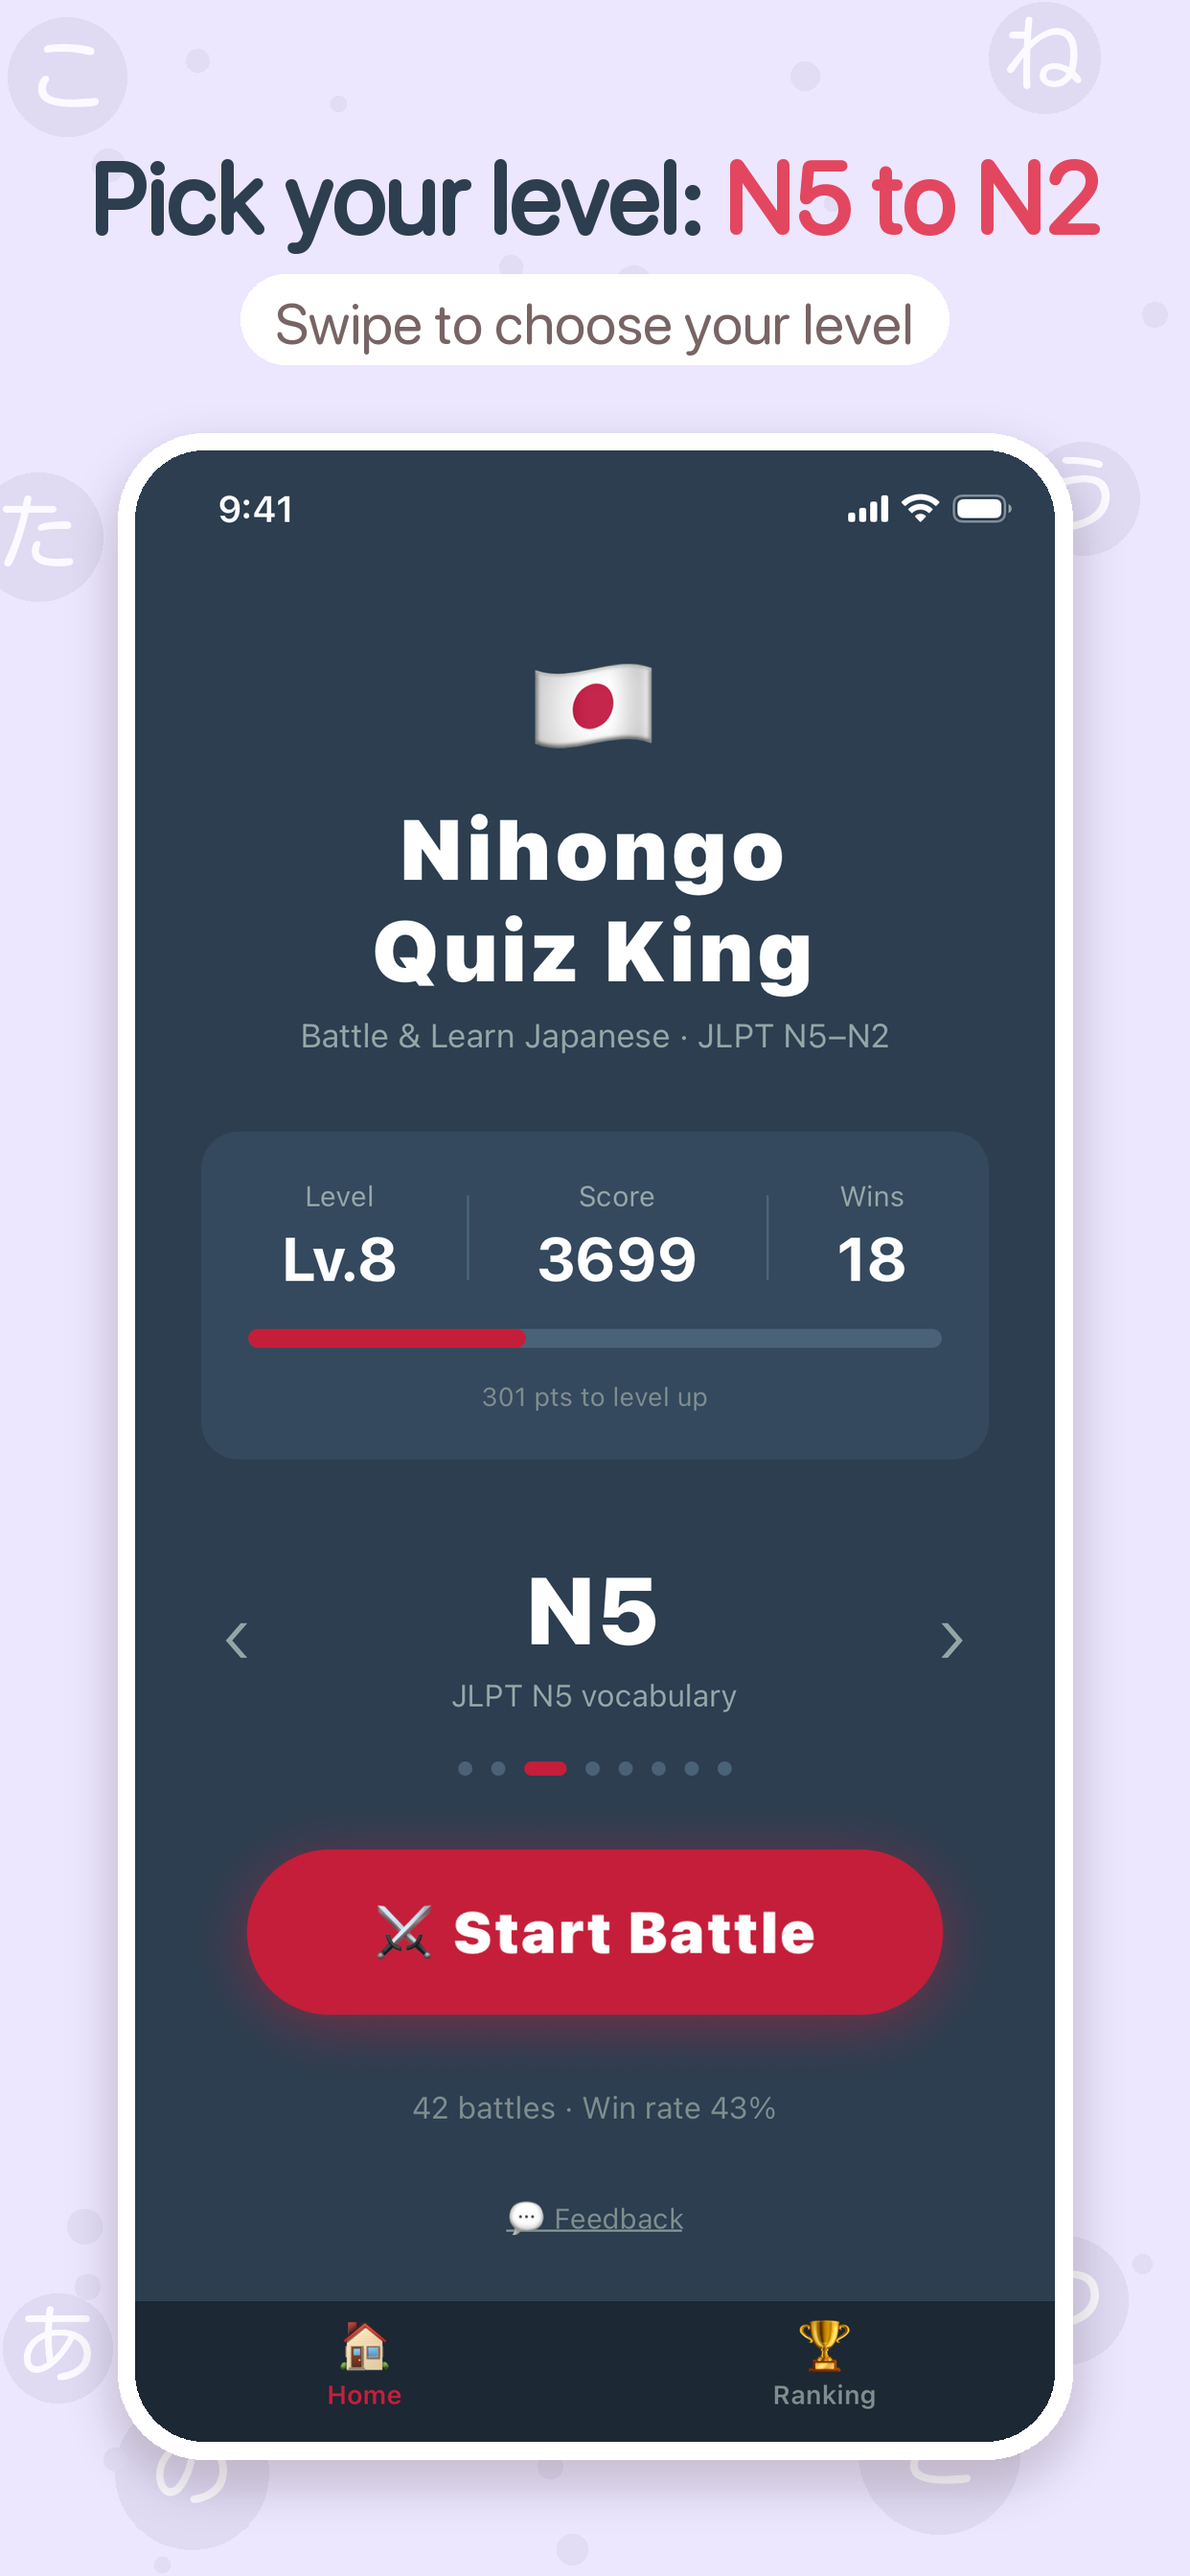
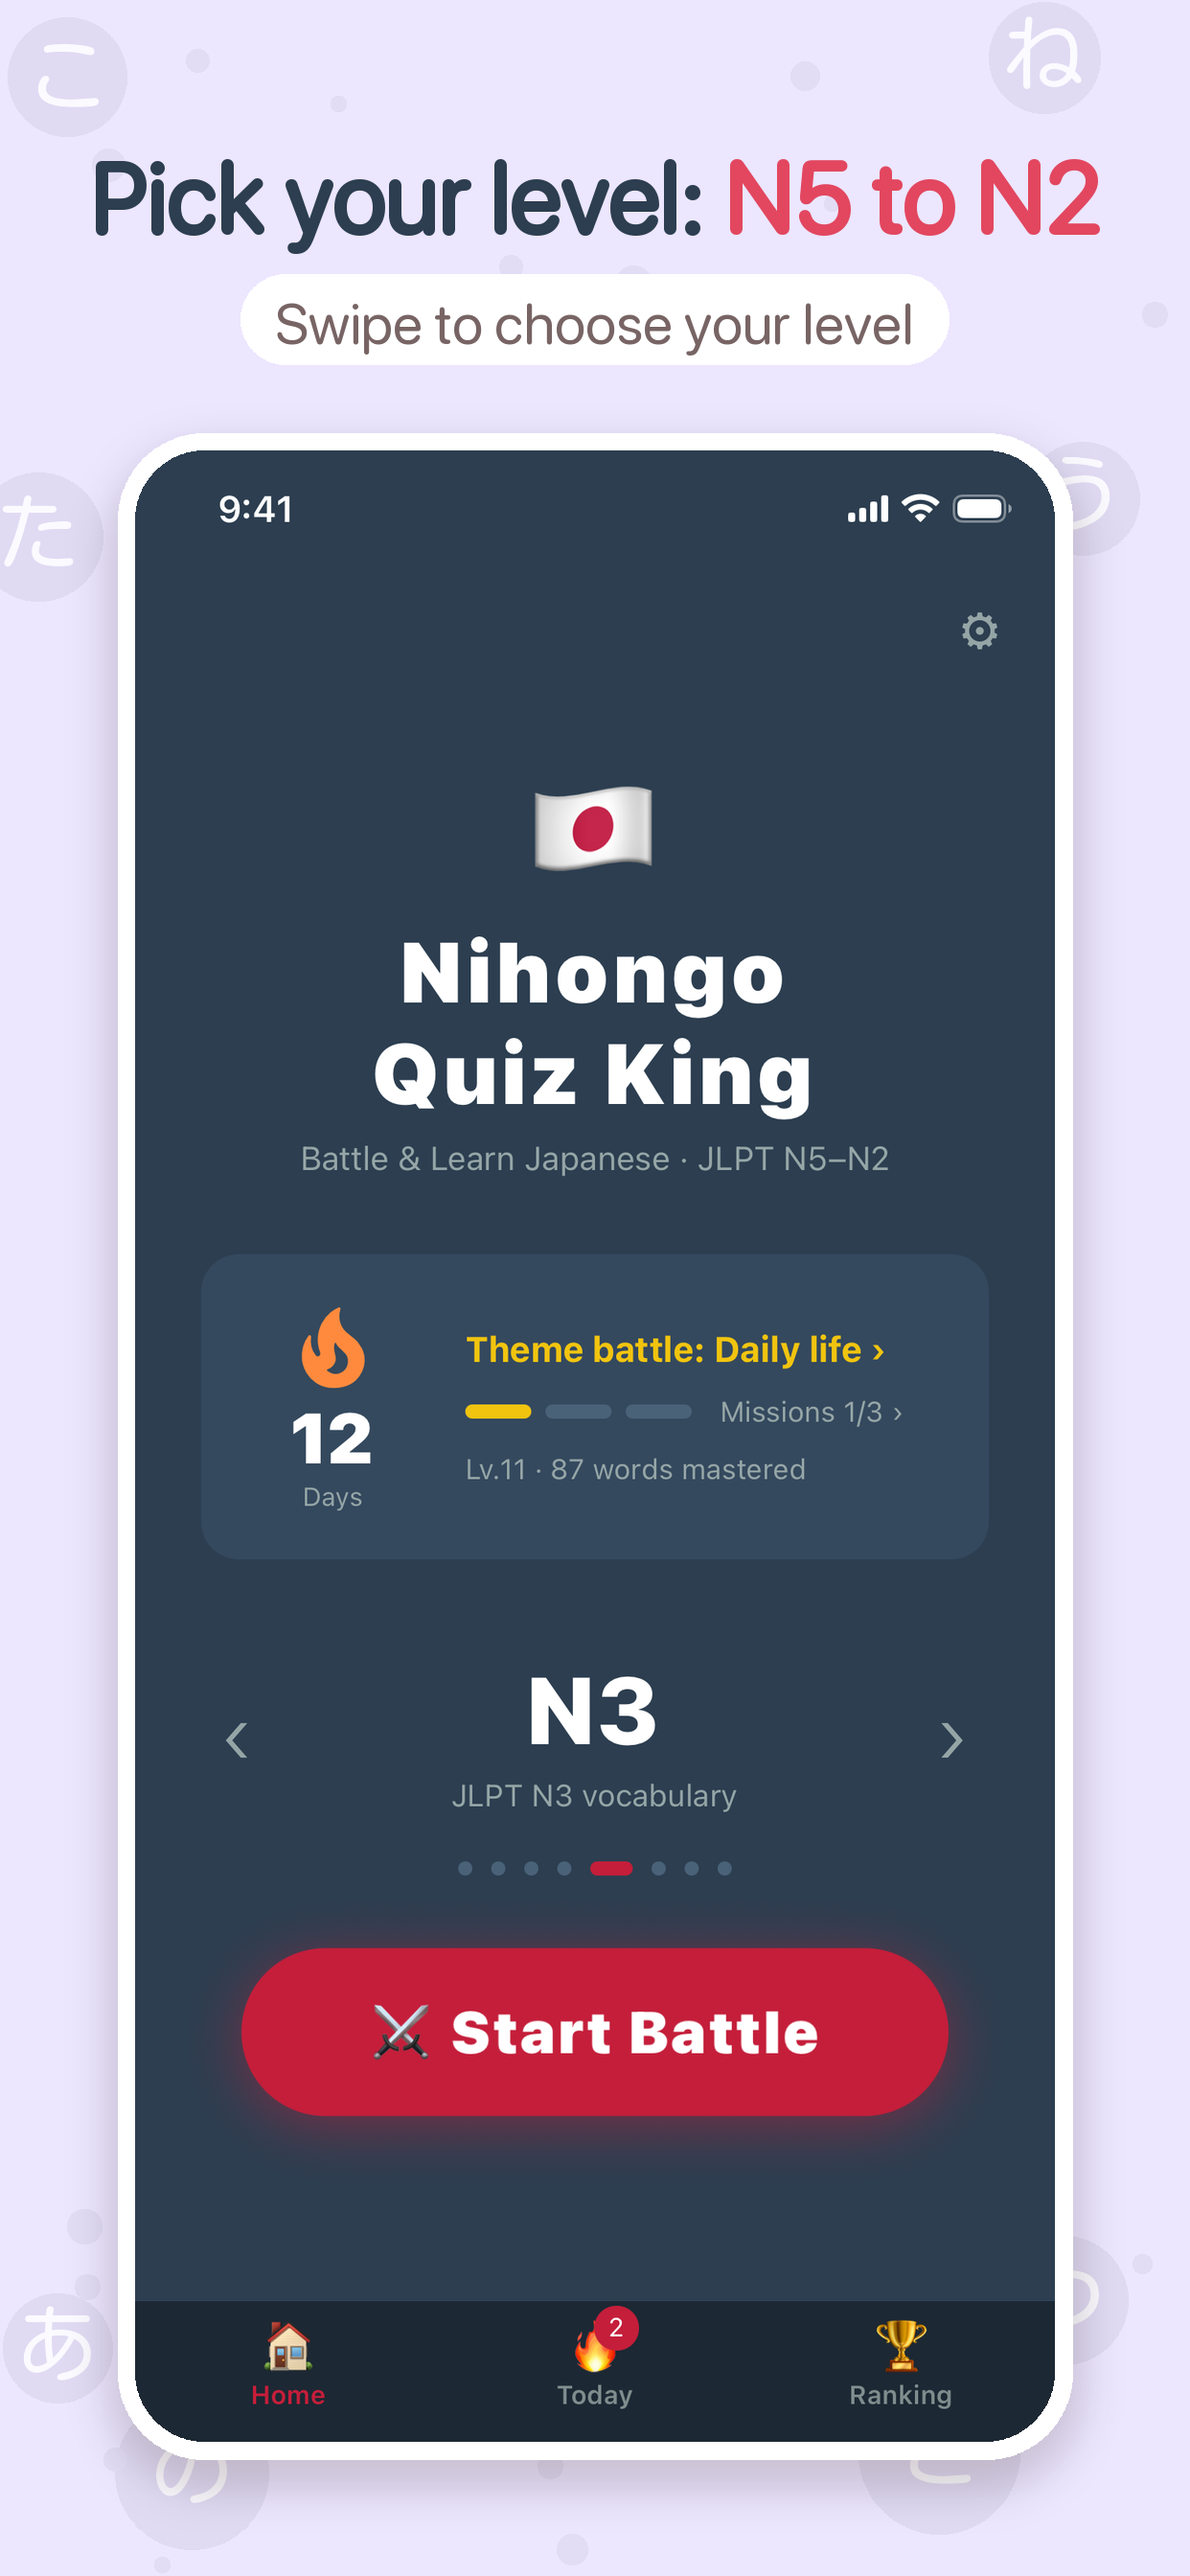
docs(appstore): 1.8.0 screenshots (new home, Today tab, result, leaderboard)
- 7 screenshots per size/language: Today tab added as #5
- home, result and leaderboard re-shot for the new layout
- composer: background colour per screen, today caption

diff --git a/scripts/compose_appstore_screenshots.py b/scripts/compose_appstore_screenshots.py
@@ -4,7 +4,7 @@ Usage:
   python3 scripts/compose_appstore_screenshots.py <raw_dir> <out_dir> pastel <zh_font.ttf>
 
 - raw_dir has en/ and zh/ with 1170x2532 simulator shots named
-  battle1 / correct / kana / home / result / rank .png
+  battle1 / correct / kana / home / today / result / rank .png
   A screen with no raw shot is skipped and its existing file in out_dir is
   kept, so only the screens whose UI changed need re-shooting.
 - zh_font: jf open 粉圓 (SIL OFL, free for commercial use), not stored in the repo:
@@ -25,7 +25,10 @@ W, H = 1242, 2688
 NAVY = (44, 62, 80)
 RED = (226, 71, 95)        # softer than the app's #C41E3A
 
-PASTELS = [(255, 228, 234), (223, 245, 236), (255, 243, 204), (236, 230, 255), (255, 232, 214), (224, 240, 255)]
+PASTELS = [(255, 228, 234), (223, 245, 236), (255, 243, 204), (236, 230, 255), (255, 232, 214), (224, 240, 255),
+           (232, 246, 220)]
+# Background per screen (not per position), so inserting a screen keeps the others' colours.
+COLOR_OF = {'battle1': 0, 'correct': 1, 'kana': 2, 'home': 3, 'result': 4, 'rank': 5, 'today': 6}
 CREAM = (255, 246, 238)
 
 CAPTIONS = {
@@ -34,6 +37,7 @@ CAPTIONS = {
         ('correct', ['10 秒', '搶答'], '越快答對，分數越高'),
         ('kana', ['從五十音', '開始'], '平假名、片假名也能對戰'),
         ('home', ['N5 到 N2 ', '任你選'], '左右滑動，挑你的難度'),
+        ('today', ['每天 3 個', '任務'], '完成就在月曆蓋章'),
         ('result', ['打贏對手，', '累積升級'], '每題都附讀音與答案'),
         ('rank', ['每週', '排行榜'], '看看你這週排第幾'),
     ],
@@ -42,6 +46,7 @@ CAPTIONS = {
         ('correct', ['10 seconds ', 'per question'], 'Answer faster, score higher'),
         ('kana', ['Start with ', 'kana'], 'Hiragana and katakana battles'),
         ('home', ['Pick your level: ', 'N5 to N2'], 'Swipe to choose your level'),
+        ('today', ['3 daily ', 'missions'], 'Stamp your calendar'),
         ('result', ['Win and ', 'level up'], 'Every answer, with its reading'),
         ('rank', ['Weekly ', 'leaderboard'], 'See where you rank this week'),
     ],
@@ -130,7 +135,7 @@ for lang, items in CAPTIONS.items():
         raw = os.path.join(RAW, lang, f'{name}.png')
         if not os.path.exists(raw):
             continue
-        bg = PASTELS[n - 1] if STYLE == 'pastel' else CREAM
+        bg = PASTELS[COLOR_OF[name]] if STYLE == 'pastel' else CREAM
         canvas = Image.new('RGB', (W, H), bg)
         decorate(canvas, bg if STYLE == 'pastel' else (255, 214, 222), n)
         d = ImageDraw.Draw(canvas)

diff --git a/docs/appstore/listing.md b/docs/appstore/listing.md
@@ -168,8 +168,9 @@ GREAT FOR
 | 1 | 作答中 | 1 對 1 日文單字對戰 / 和對手限時搶答 | Japanese vocab battles / Race an opponent |
 | 2 | 答對瞬間 | 10 秒搶答 / 越快答對，分數越高 | 10 seconds per question / Answer faster, score higher |
 | 3 | 五十音（1.7.0 新增） | 從五十音開始 / 平假名、片假名也能對戰 | Start with kana / Hiragana and katakana battles |
-| 4 | 首頁 | N5 到 N2 任你選 / 左右滑動，挑你的難度 | Pick your level: N5 to N2 / Swipe to choose your level |
-| 5 | 勝利結算 | 打贏對手，累積升級 / 每題都附讀音與答案 | Win and level up / Every answer, with its reading |
-| 6 | 排行榜 | 每週排行榜 / 看看你這週排第幾 | Weekly leaderboard / See where you rank this week |
+| 4 | 首頁（1.8.0 重拍：今日卡） | N5 到 N2 任你選 / 左右滑動，挑你的難度 | Pick your level: N5 to N2 / Swipe to choose your level |
+| 5 | 今日分頁（1.8.0 新增） | 每天 3 個任務 / 完成就在月曆蓋章 | 3 daily missions / Stamp your calendar |
+| 6 | 勝利結算（1.8.0 重拍） | 打贏對手，累積升級 / 每題都附讀音與答案 | Win and level up / Every answer, with its reading |
+| 7 | 排行榜（1.8.0 重拍：三個分頁） | 每週排行榜 / 看看你這週排第幾 | Weekly leaderboard / See where you rank this week |
 
 截圖技巧：作答畫面要選對答案再截，可暫時把 `app/battle/play.tsx` 的 `elapsedRef.current += 0.1` 改成 `0.02`（倒數放慢 5 倍），截完務必還原、不要 commit。狀態列用 `xcrun simctl status_bar booted override --time "9:41" ...` 統一。
